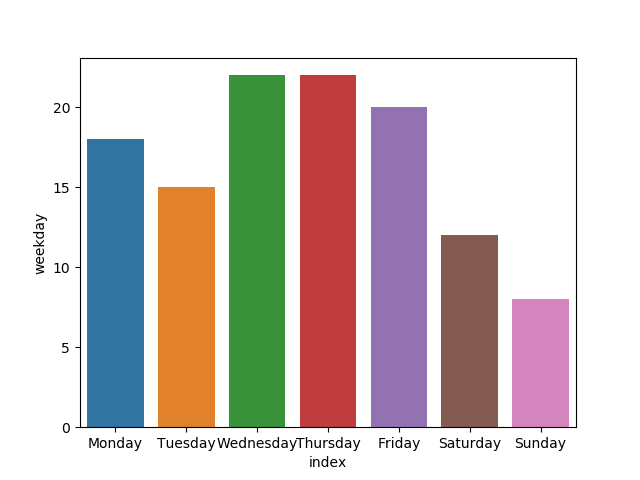
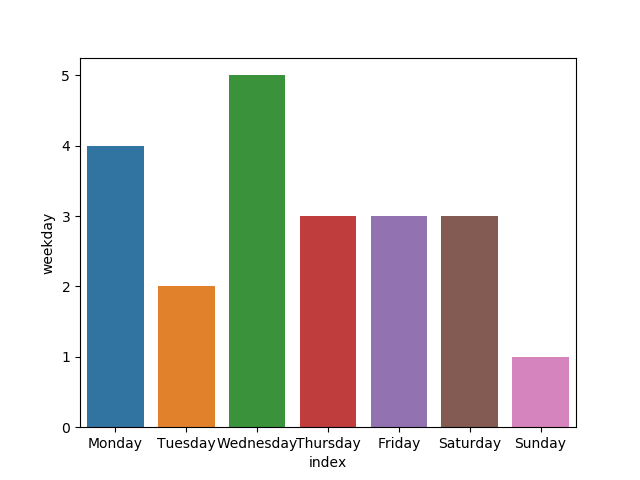
Atualizado

diff --git a/src/analisar_poste.py b/src/analisar_poste.py
@@ -3,9 +3,10 @@
 __autor__ = "neviim jads"
 __version__ = "1.0.0"
 
-# #%%
+#%%
 import sys
 import os
+import time
 import math
 import datetime
 import numpy as np
@@ -73,6 +74,29 @@ class face_poster(object):
 
     def get_arquivo(self):
         return self.path_arquivo_csv
+
+    def trimestre_periodo(self, todos=True, unico=1):
+        """ Trimestre a ser gerado de 1 a 4 ou todos
+        
+            Arguments:
+                todos {[logico]} -- [Verdadeiro = gera todos]
+                unico {[int]}    -- [caso for trimestre unico, o seu numero]
+
+            Retorno:
+                Retorna parametro duplo, sendo eles:
+
+                    tri_start {[Int]} -- [Trimesrte inicial]
+                    trimestre {[Int]} -- [Trimestre final]
+        """
+        if todos:
+            trimestre = 4
+            tri_start = 0
+        else:
+            fun = lambda x: x > 4 and 4 or x
+            trimestre = fun(unico)
+            tri_start = trimestre-1
+            
+        return(tri_start, trimestre)
 
     def hora(self, dhora):
         list_key = range(1,23)
@@ -206,8 +230,8 @@ class face_poster(object):
         if imprime:
             print( nome_trimestre )
             print( dados_poste_semana )
-            print( )
-
+            print( self.itens )
+   
         return
 
 
@@ -217,12 +241,18 @@ def main():
     # defini path e ip do arquivo
     path_proj = os.path.expanduser("~/documents/github/_python_projetos/facebookAnalize")
     arqv_id = "1-tri-facebook.tw"
-    num_trimestres = 4
-    
+
+    tri_unico = 3      # trimestre unico a sera gerado
+    tri_todos = False  # imprime todos os trimestres
+
+    # instancia a classe poster
+    poster = face_poster(arqv_id)
+    tri_start, trimestre = poster.trimestre_periodo(tri_todos, tri_unico) 
+
     # loop de trimestre a ser gerados
-    for n in range(0, num_trimestres):
+    for n in range(tri_start, trimestre):
         arqv_id = str(n+1)+arqv_id[1:]
-        poster = face_poster(arqv_id)
+        #poster = face_poster(arqv_id)
 
         # abre arquivo e renomeia colunas 
         dfreme = poster.ler_csv(path_proj, arqv_id)
@@ -247,8 +277,9 @@ def main():
         # publicação por semana
         poste_semana, status = poster.dia_semana(dict(dfreme_filtrado['weekday'].value_counts()))
         if status:
-           poster.gera_grafico_dia_semana(arqv_id[:-12]+'mestre', poste_semana, True)
-           #pass
+            poster.gera_grafico_dia_semana(arqv_id[:-12]+'mestre', poste_semana, False)
+            print(arqv_id)
+           
 
     return
     

diff --git a/src/tmp.py b/src/tmp.py
@@ -1,23 +1,4 @@
-# --- frequencia dos postes
-''' calcula a frequencia de postes
-    count    =>  quantidade processada      
-     mean    =>  media de internalo de postagem
-      std    =>  divisão padrão - standard deviation
-      min    =>  minimo de intervalo de postagem
-      25%    
-      50%
-      75%
-      max    => periodo maximo sem uma postagem
-'''
-delta_datetime = df['datetime'].shift(1) - df['datetime']
-delta_datetime_df = pd.Series(delta_datetime).describe().apply(str)
-freq_postes_df = delta_datetime_df.to_frame(name='frequencia de postes')
-#print( freq_postes_df )
 
-# Numero de poster por semana
-df_weekday = week_day(dict(df['weekday'].value_counts()))
-#publ_semana_graf = sns.barplot(x='index', y='weekday', data = df_weekday)
-#print( publ_semana_graf )
 
 # Estatísticas sobre o número de postagens nos primeiros dias
 df_hora = hora(dict(df['hour'].value_counts()))

diff --git a/README.md b/README.md
@@ -11,13 +11,16 @@ Algorítimo para analisar alguns dados fornecido pelo facebook em csv
            Currently running servers:
            http://localhost:8888/?token=6031a497d4a65e264ea5874d47f49d2ac27b758dedc4d408 :: C:\Users\jorge
 
+           ctrl+shift+p
+           Jupyter: Enter com a url do local/remoto Jupyter Notebook
+
     (py37) C:\>
 
     # --- instalar dependencias no ambiente virtual que esta sendo utilizado.
 
     (py37) C:\> pip install -r requirements.txt
-    (py37) C:\> 
-    (py37) C:\> 
+    (py37) C:\> cd src
+    (py37) C:\> python analisar_poste.py
 
     # ---
 
